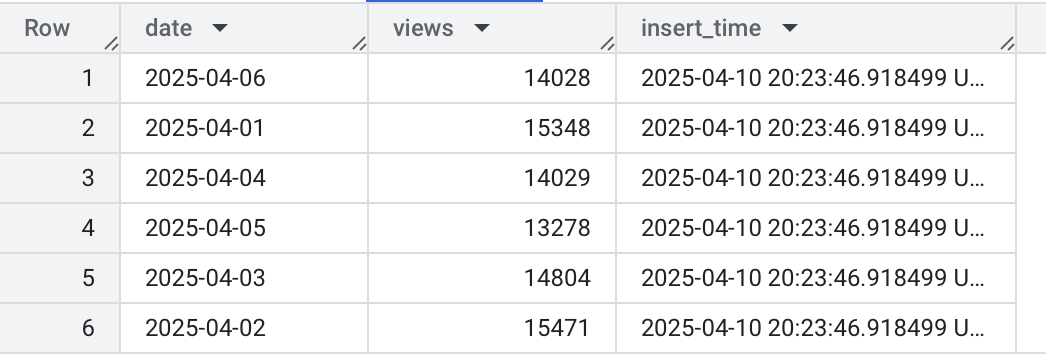
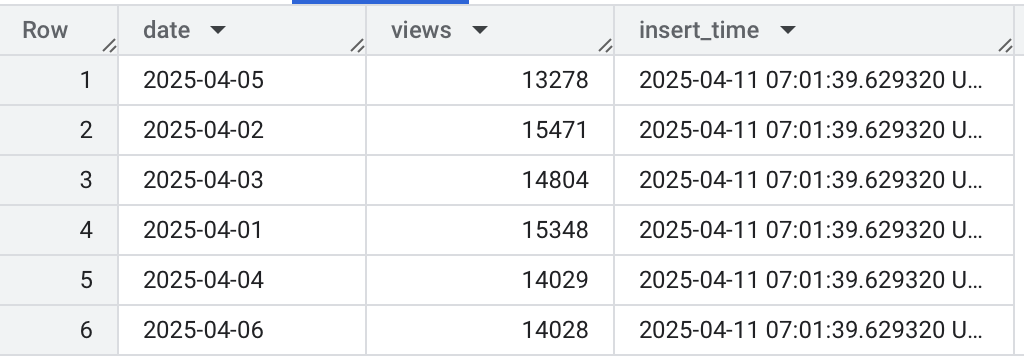
fixed incremental model issue

diff --git a/Assignment5_model_runs.md b/Assignment5_model_runs.md
@@ -1,0 +1,79 @@
+Part 1 run 1
+
+envdaviddavid@MacBook-Air-david course-project-DavidBakalov21 % dbt run --select fct_assignment5_totals
+07:01:35 Running with dbt=1.9.3
+07:01:36 Registered adapter: bigquery=1.9.1
+07:01:36 Unable to do partial parsing because a project config has changed
+07:01:36 [WARNING]: Did not find matching node for patch with name 'week5_transactions_deduplicated_view' in the 'models' section of file 'models/models_staging.yml'
+07:01:37 [WARNING]: Test 'test.econ250_2025.test_web_revenue_should_match' (tests/test_web_revenue_should_match.sql) depends on a node named 'week5_transactions_deduplicated_view' in package '' which was not found
+07:01:37 [WARNING]: Test 'test.econ250_2025.not_null_week5_transactions_deduplicated_view_transaction_transactionId.440db59426' (models/models_staging.yml) depends on a node named 'week5_transactions_deduplicated_view' in package '' which was not found
+07:01:37 [WARNING]: Test 'test.econ250_2025.not_null_week5_transactions_deduplicated_view_transaction_transactionRevenue.4f12dd6f4c' (models/models_staging.yml) depends on a node named 'week5_transactions_deduplicated_view' in package '' which was not found
+07:01:37 [WARNING]: Test 'test.econ250_2025.not_null_week5_transactions_deduplicated_view**surrogate_key.8841330118' (models/models_staging.yml) depends on a node named 'week5_transactions_deduplicated_view' in package '' which was not found
+07:01:37 [WARNING]: Test 'test.econ250_2025.unique_week5_transactions_deduplicated_view**surrogate_key.27c2109710' (models/models_staging.yml) depends on a node named 'week5_transactions_deduplicated_view' in package '' which was not found
+07:01:37 Found 16 models, 1 seed, 11 data tests, 12 sources, 491 macros
+07:01:37  
+07:01:37 Concurrency: 2 threads (target='dev')
+07:01:37  
+07:01:38 1 of 1 START sql incremental model dbakalov.fct_assignment5_totals ............. [RUN]
+07:01:46 1 of 1 OK created sql incremental model dbakalov.fct_assignment5_totals ........ [CREATE TABLE (2.4m rows, 439.8 MiB processed) in 7.27s]
+07:01:46  
+07:01:46 Finished running 1 incremental model in 0 hours 0 minutes and 9.16 seconds (9.16s).
+07:01:46  
+07:01:46 Completed successfully
+07:01:46  
+07:01:46 Done. PASS=1 WARN=0 ERROR=0 SKIP=0 TOTAL=1
+
+Part1 run2:
+envdaviddavid@MacBook-Air-david course-project-DavidBakalov21 % dbt run --select fct_assignment5_totals
+07:03:00 Running with dbt=1.9.3
+07:03:00 Registered adapter: bigquery=1.9.1
+07:03:00 Found 16 models, 1 seed, 11 data tests, 12 sources, 491 macros
+07:03:00  
+07:03:00 Concurrency: 2 threads (target='dev')
+07:03:00  
+07:03:02 1 of 1 START sql incremental model dbakalov.fct_assignment5_totals ............. [RUN]
+07:03:19 1 of 1 OK created sql incremental model dbakalov.fct_assignment5_totals ........ [SCRIPT (262.5 MiB processed) in 16.72s]
+07:03:19  
+07:03:19 Finished running 1 incremental model in 0 hours 0 minutes and 18.29 seconds (18.29s).
+07:03:19  
+07:03:19 Completed successfully
+07:03:19  
+07:03:19 Done. PASS=1 WARN=0 ERROR=0 SKIP=0 TOTAL=1
+
+PART 2 RUN 1:
+
+envdaviddavid@MacBook-Air-david course-project-DavidBakalov21 % dbt run --select fct_assignment5_l
+ookup
+07:12:50 Running with dbt=1.9.3
+07:12:51 Registered adapter: bigquery=1.9.1
+07:12:51 Found 16 models, 1 seed, 11 data tests, 12 sources, 491 macros
+07:12:51  
+07:12:51 Concurrency: 2 threads (target='dev')
+07:12:51  
+07:12:53 1 of 1 START sql incremental model dbakalov.fct_assignment5_lookup ............. [RUN]
+07:13:01 1 of 1 OK created sql incremental model dbakalov.fct_assignment5_lookup ........ [CREATE TABLE (928.8k rows, 439.8 MiB processed) in 7.88s]
+07:13:01  
+07:13:01 Finished running 1 incremental model in 0 hours 0 minutes and 9.43 seconds (9.43s).
+07:13:01  
+07:13:01 Completed successfully
+07:13:01  
+07:13:01 Done. PASS=1 WARN=0 ERROR=0 SKIP=0 TOTAL=1
+envdaviddavid@MacBook-Air-david course-project-DavidBakalov21 %
+
+PART 2 RUN 2:
+
+envdaviddavid@MacBook-Air-david course-project-DavidBakalov21 % dbt run --select fct_assignment5_lookup
+07:16:24 Running with dbt=1.9.3
+07:16:24 Registered adapter: bigquery=1.9.1
+07:16:24 Found 16 models, 1 seed, 11 data tests, 12 sources, 491 macros
+07:16:24  
+07:16:24 Concurrency: 2 threads (target='dev')
+07:16:24  
+07:16:26 1 of 1 START sql incremental model dbakalov.fct_assignment5_lookup ............. [RUN]
+07:16:37 1 of 1 OK created sql incremental model dbakalov.fct_assignment5_lookup ........ [MERGE (409.7k rows, 140.1 MiB processed) in 11.19s]
+07:16:37  
+07:16:37 Finished running 1 incremental model in 0 hours 0 minutes and 12.56 seconds (12.56s).
+07:16:37  
+07:16:37 Completed successfully
+07:16:37  
+07:16:37 Done. PASS=1 WARN=0 ERROR=0 SKIP=0 TOTAL=1
